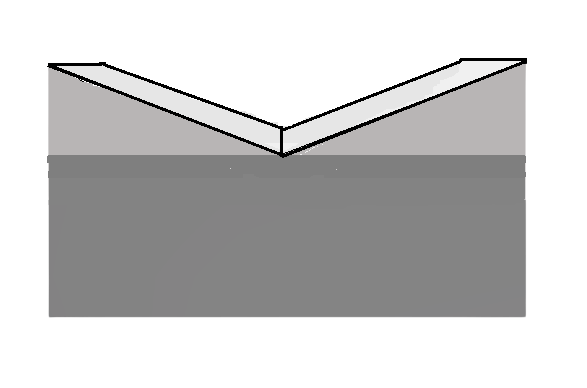
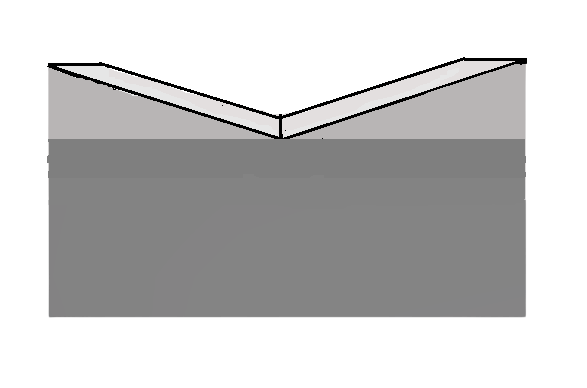
dxpf3

Changed region(s): [[0.0613, 0.1546, 0.9199, 0.4021], [0.184, 0.1546, 0.2147, 0.1856]]

diff --git a/experiment/simulation/js/sinebar.js b/experiment/simulation/js/sinebar.js
@@ -59,7 +59,7 @@ function MoveobjR(){
 	document.getElementById('dstand').style.left = 93 +"%";
 	document.getElementById('dial').style.left = 90 +"%";
 	document.getElementById('dholder').style.left = 79 +"%";
-	document.getElementById('dholder').style.top = -36.5 +"%";
+	document.getElementById('dholder').style.top = -34 +"%";
 	document.getElementById('pspan').style.left = 85 +"%";
 	
 	document.getElementById('cb').style.top = -75 +"%";
@@ -70,6 +70,7 @@ function MoveobjR(){
 	 }
 
 function MoveobjL(){
+	if (document.getElementById('chkside').value!=1){
 	document.getElementById('obj').classList.remove("moveRightobj");
 	document.getElementById('holder').classList.remove("moveRightholder");
 	//document.getElementById('dholder').classList.remove("moveRightdholder");
@@ -85,10 +86,11 @@ function MoveobjL(){
 	document.getElementById('dholder').style.top = -30.5 +"%";
 	document.getElementById('pspan').style.left = -1 +"%";
 	
-	document.getElementById('cb').style.top = -69 +"%";
-	document.getElementById('dstand').style.top = -23 +"%";
-	document.getElementById('pspan').style.top = -80 +"%";
+	document.getElementById('cb').style.top = -75 +"%";
+	document.getElementById('dstand').style.top = -29 +"%";
+	document.getElementById('pspan').style.top = -84 +"%";
 	document.getElementById('dholder').style.zIndex= 4;
+	}
 }
 
 ///dial movement
@@ -220,29 +222,65 @@ function Simulate(){
 	var theta = math.asin(math.divide(H,L));
 	
 	if(document.getElementById('chkside').value == 1){
-	document.getElementById('slipgauge').style.height = (THeight*2.5)+ 'px';
-	var thetad = -math.divide(math.multiply(theta,180),math.pi);///thetad is the calculated actual degree value needed for calculation 
 	
-	if(H<=71.5){
+	var thetad = -math.divide(math.multiply(theta,180),math.pi);///thetad is the calculated actual degree value needed for calculation 
+	if(H<=100){
+	var thetaAnim = thetad/1.96;
+	document.getElementById('slipgauge').style.height = (THeight*1.9)+ 'px';
+	}
+	if(H>100 && H<=110){
+	var thetaAnim = thetad/1.96; ///to display the animation it is needed.//2.3
+	document.getElementById('slipgauge').style.height = (THeight*2)+ 'px';
+	}
+	if(H>110 && H<=120){
+	var thetaAnim = thetad/1.95; ///to display the animation it is needed.//2.3
+	document.getElementById('slipgauge').style.height = (THeight*2.2)+ 'px';
+	}
+	if(H>120){
+	var thetaAnim = thetad/1.95; ///to display the animation it is needed.//2.3
+	document.getElementById('slipgauge').style.height = (THeight*2.3)+ 'px';
+	}
+	/* if(H<=71.5){
 	var thetaAnim = thetad/1.4; ///to display the animation it is needed.//1.8
 	}
-	 if(H>71.5){
-	var thetaAnim = thetad/2.3; ///to display the animation it is needed.//2.3
-	document.getElementById('slipgauge').style.height = (THeight*2)+ 'px';
-	} 
+	 if(H>71.5 && H!=80 && H!=100){
+	var thetaAnim = thetad/1.94; ///to display the animation it is needed.//2.3
+	document.getElementById('slipgauge').style.height = (THeight*2.2)+ 'px';
+	}
 	
+	if(H==80){
+	var thetaAnim = thetad/1.8; ///to display the animation it is needed.//2.3
+	document.getElementById('slipgauge').style.height = (THeight*1.98)+ 'px';
+	}
+	
+	if(H==100){
+	var thetaAnim = thetad/1.94; ///to display the animation it is needed.//2.3
+	document.getElementById('slipgauge').style.height = (THeight*2.1)+ 'px';
+	} */
+	
+	document.getElementById('slipgauge2').style.height = 0 + 'px';
 	}
 	else if(document.getElementById('chkside').value == 2){
-	document.getElementById('slipgauge2').style.height = (THeight*2.5) + 'px';
+	//document.getElementById('slipgauge2').style.height = (THeight*2.5) + 'px';
 	var thetad = math.divide(math.multiply(theta,180),math.pi);
 	
-	if(H<=71.5){
-	var thetaAnim = thetad/1.4; ///to display the animation it is needed.
+	if(H<=100){
+	var thetaAnim = thetad/1.96;
+	document.getElementById('slipgauge2').style.height = (THeight*1.9)+ 'px';
 	}
-	 if(H>71.5){
-	var thetaAnim = thetad/2.3; ///to display the animation it is needed.
+	if(H>100 && H<=110){
+	var thetaAnim = thetad/1.96; ///to display the animation it is needed.//2.3
 	document.getElementById('slipgauge2').style.height = (THeight*2)+ 'px';
-	} 
+	}
+	if(H>110 && H<=120){
+	var thetaAnim = thetad/1.95; ///to display the animation it is needed.//2.3
+	document.getElementById('slipgauge2').style.height = (THeight*2.2)+ 'px';
+	}
+	if(H>120){
+	var thetaAnim = thetad/1.95; ///to display the animation it is needed.//2.3
+	document.getElementById('slipgauge2').style.height = (THeight*2.3)+ 'px';
+	}
+	document.getElementById('slipgauge').style.height = 0 + 'px';
 	}	
 	 
 	 dialtheta = math.abs(thetad);
@@ -281,6 +319,8 @@ function removeH(){
 	h4=0;
 	h5=0;h6=0;h7=0;h8=0;h9=0;
 	//c1=0;c2=0;c3=0;c4=0;c5=0;c6=0;c7=0;c8=0;c9=0;
+	document.getElementById('refresh').disabled=false;
+	document.getElementById('chkbtn').value = 1;
 	if(document.getElementById('chkside').value == 1){
 	document.getElementById('slipgauge').style. height = 0 +"%";
 	}
@@ -293,8 +333,8 @@ function removeH(){
 	document.getElementById("bar").style.transform = "rotate("+0+ "deg)";
 	document.getElementById("obj").style.transform = "rotate("+0+ "deg)";
 	 nValue = '';
-	$('#dial')[0].value = nValue;
-	
+	$('#dial')[0].value = ' ';
+	document.getElementById('ads').disabled=true;
 	
 	
 }
@@ -354,6 +394,7 @@ function Refresh(){
 	}
 	
 	tabrowindex=0;
-	removeH();
-	
+	//removeH();
+	document.getElementById('chkbtn').value = 0;
+	document.getElementById('ads').disabled=false;
  }

diff --git a/experiment/simulation/index.html b/experiment/simulation/index.html
@@ -202,10 +202,10 @@
 				
 				<div class="p-2 " >
 				 <div class="dropdown">
-					<button class="btn btn-secondary dropdown-toggle" type="button" data-bs-toggle="dropdown" aria-expanded="false">Select test object <span class="caret"></span></button>
+					<button class="btn btn-secondary dropdown-toggle" type="button" data-bs-toggle="dropdown" aria-expanded="false" id="sto">Select test object <span class="caret"></span></button>
 					<ul class="dropdown-menu">
-					  <li id="ost"><a onclick = "changeImg1()" >One side taper</a></li>
-					  <li id="vb"><a onclick = "changeImg2()" >V block</a></li>
+					  <li id="ost"><a onclick = "changeImg1();document.getElementById('ads').disabled=false" >One side taper</a></li>
+					  <li id="vb"><a onclick = "changeImg2();document.getElementById('ads').disabled=false" >V block</a></li>
 					</ul>
 				  </div></div>				
 				
@@ -216,13 +216,13 @@
 					<button class="btn btn-secondary dropdown-toggle" type="button" id="dbtn" data-bs-toggle="dropdown" aria-expanded="false" disabled=disabled>Choose object position on sinebar
 					<span class="caret"></span></button>
 					<ul class="dropdown-menu">
-					  <li><a onclick = "MoveobjL()">Left</a></li>
-					  <li><a onclick = "MoveobjR()">Right</a></li>
+					  <li id ="Lside"><a onclick = "MoveobjL()">Left</a></li>
+					  <li id="Rside"><a onclick = "MoveobjR()">Right</a></li>
 					</ul>
 				  </div></div>
 				  <div class="p-2 " >
 				   <div class="dropdown">
-					<button class="btn btn-info dropdown-toggle" type="button" data-bs-toggle="dropdown" aria-expanded="false">Add slip gauge height (h) (mm)
+					<button class="btn btn-info dropdown-toggle" type="button" data-bs-toggle="dropdown" aria-expanded="false" disabled=disabled id="ads">Add slip gauge height (h) (mm)
 					</button>
 					<ul class="dropdown-menu">
 					  <li><a onclick = "ch1();Simulate();autoUpdateChart()">0.5</a></li>
@@ -250,10 +250,11 @@
 			<button type="button" onclick="CreateTable()" class="btn btn-primary" >Add to Table</button>
 			<button type="button" onclick="calibrate()" class="btn btn-success" >calibrate</button>
 			<button type="button" onclick="removeH()" class="btn btn-primary" >Remove slip gauge</button>
-			<button type="button" id="refresh" onclick="Refresh()" class="btn btn-danger" >Clear</button>
+			<button type="button" id="refresh" onclick="Refresh()" class="btn btn-danger" disabled=disabled >Clear</button>
 			<button type="button"  onclick="location.reload()" class="btn btn-primary" >Restart Experiment</button>
 			
 			<input type="number" id = "chkobj" value = "2" min="1" max="2"  style="width:20%;text-align:center;visibility:hidden" readonly=readonly >
+			<input type="number" id = "chkbtn" value = "0" min="0" max="1"  style="width:20%;text-align:center;visibility:hidden" readonly=readonly >
 		</div>
 			<div class="col-md-1" ></div>		
 			<!---end of 1st col under 1st row--->	
@@ -424,10 +425,11 @@
 ///starting functions to indicate pressure value,where total pressure is 1000 the range is 0-1000 kpa.	
 var Interval,nValue,finalV = 100;
 
-	
+	var dialtheta2;
 function updateChart(){
 
 	Simulate();
+	
  nValue = math.round(myChart.data.datasets[0].needleValue);
  var diff = math.round(math.subtract(50,dialtheta));
 //var editedValue = math.add(needleValue,incr);
@@ -436,18 +438,26 @@ function updateChart(){
  myChart.data.datasets[0].data[1] = (100 - nValue);
  //console.log('nValue =' + nValue);
 
+var mfactor = 0.02;
 /// placing random number
-if(math.round(dialtheta)<30){
-nValue--;
-nValue = math.subtract(50,dialtheta);
-myChart.data.datasets[0].needleValue = nValue;
-document.getElementById('dial').value = nValue;
-}
 if(math.round(dialtheta)>30){
-nValue++;
-nValue = math.add(50,dialtheta);
+nValue--;
+nValue = math.subtract(50,math.divide(dialtheta,2));
 myChart.data.datasets[0].needleValue = nValue;
-document.getElementById('dial').value = nValue;
+document.getElementById('dial').value = -math.multiply(nValue.toFixed(2),mfactor);
+}
+if(math.round(dialtheta)<30){
+nValue++;
+nValue = math.add(50,math.divide(dialtheta,2));
+myChart.data.datasets[0].needleValue = nValue;
+
+if(document.getElementById('chkbtn').value==0){
+document.getElementById('dial').value = math.multiply(nValue.toFixed(2),mfactor);
+}
+if(document.getElementById('chkbtn').value==1){
+document.getElementById('dial').value = '';
+}
+
 }
 else if(math.floor(dialtheta)==30){
 myChart.data.datasets[0].data[0] = 50;
